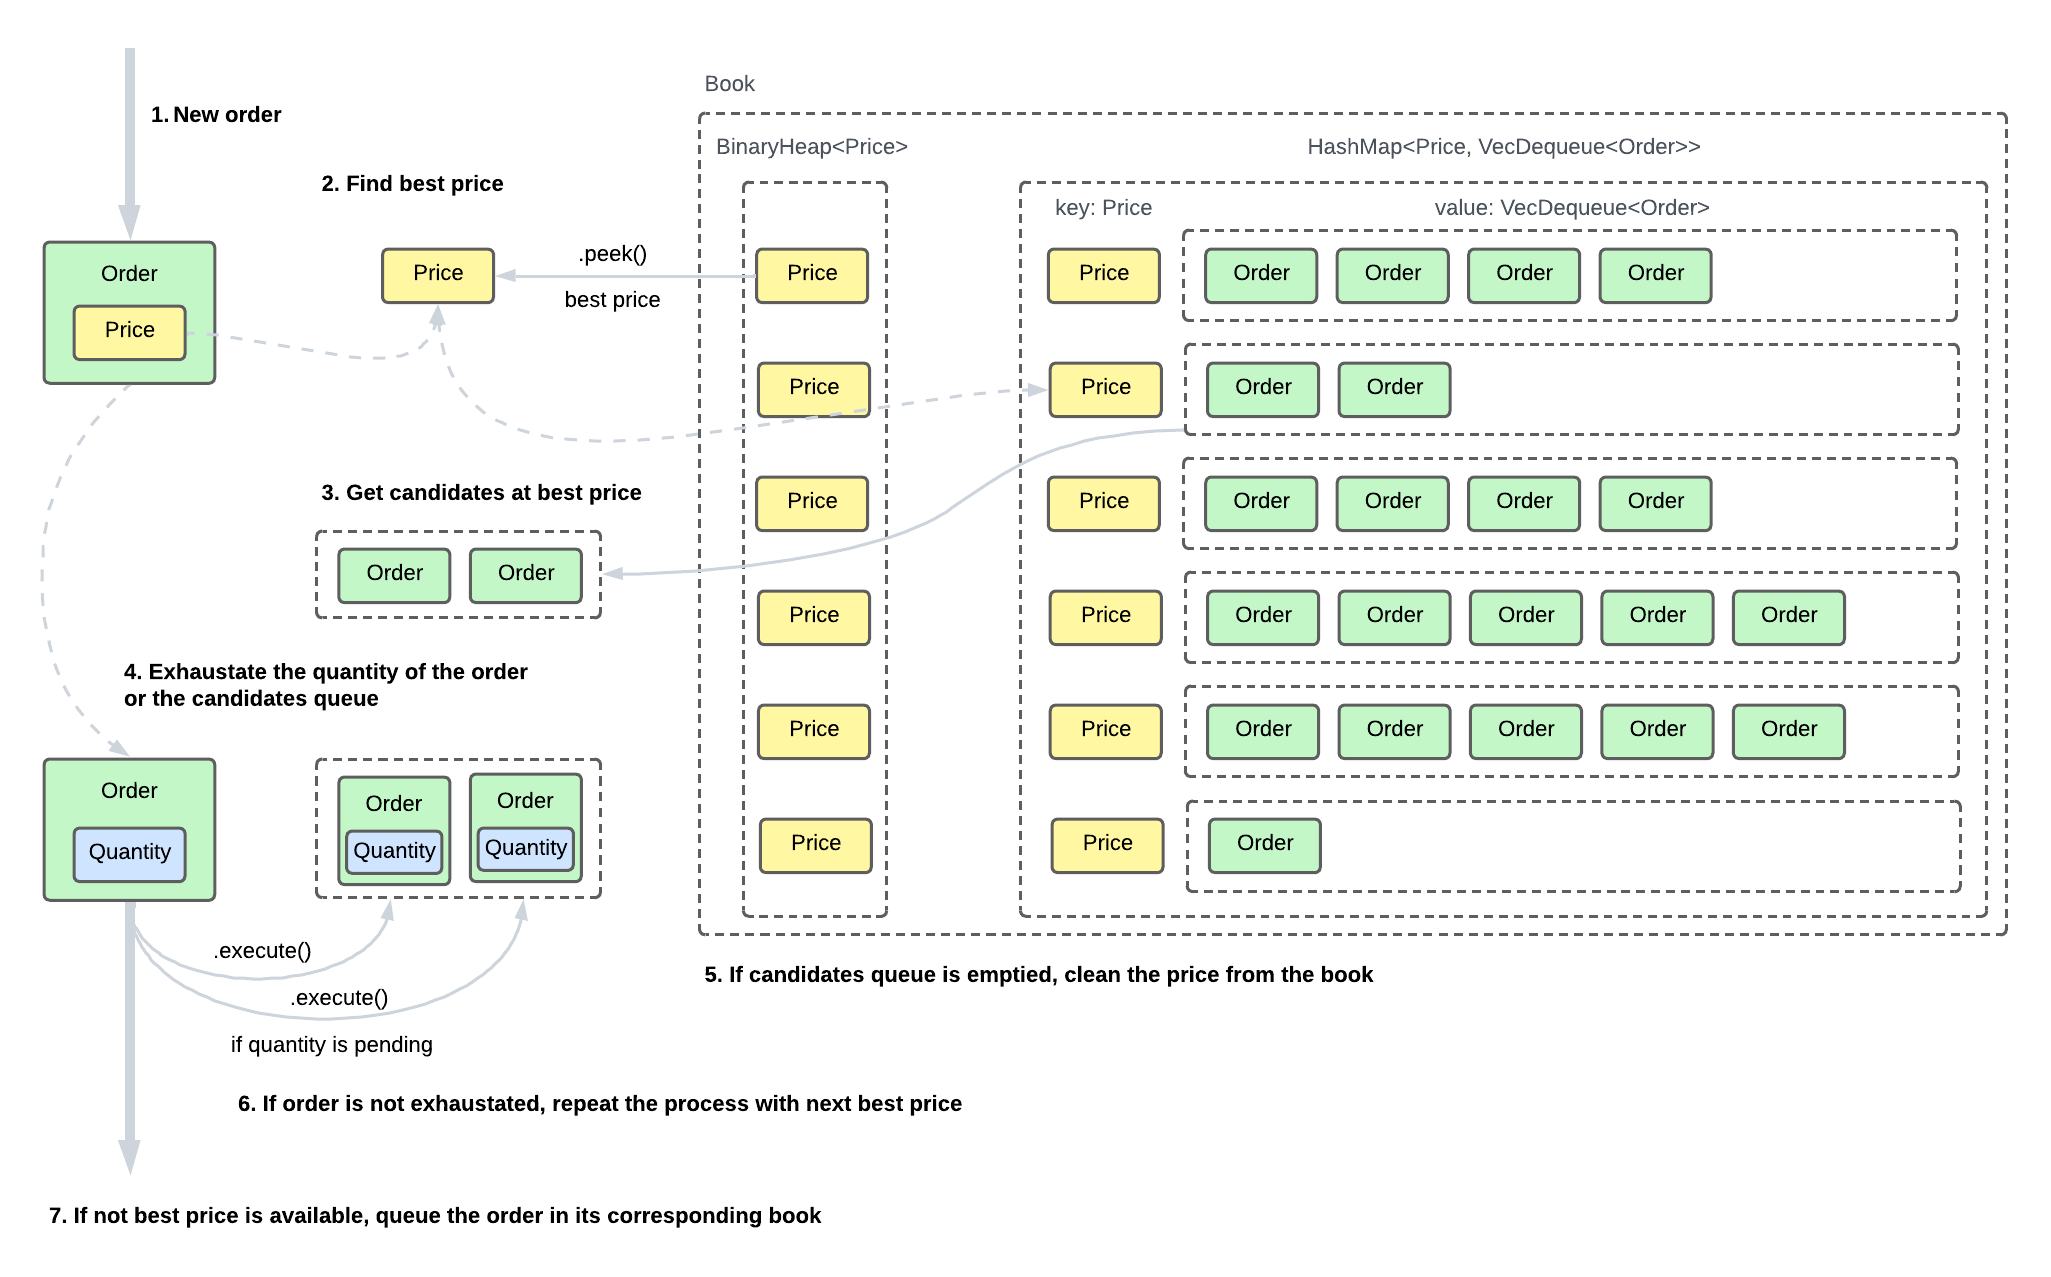
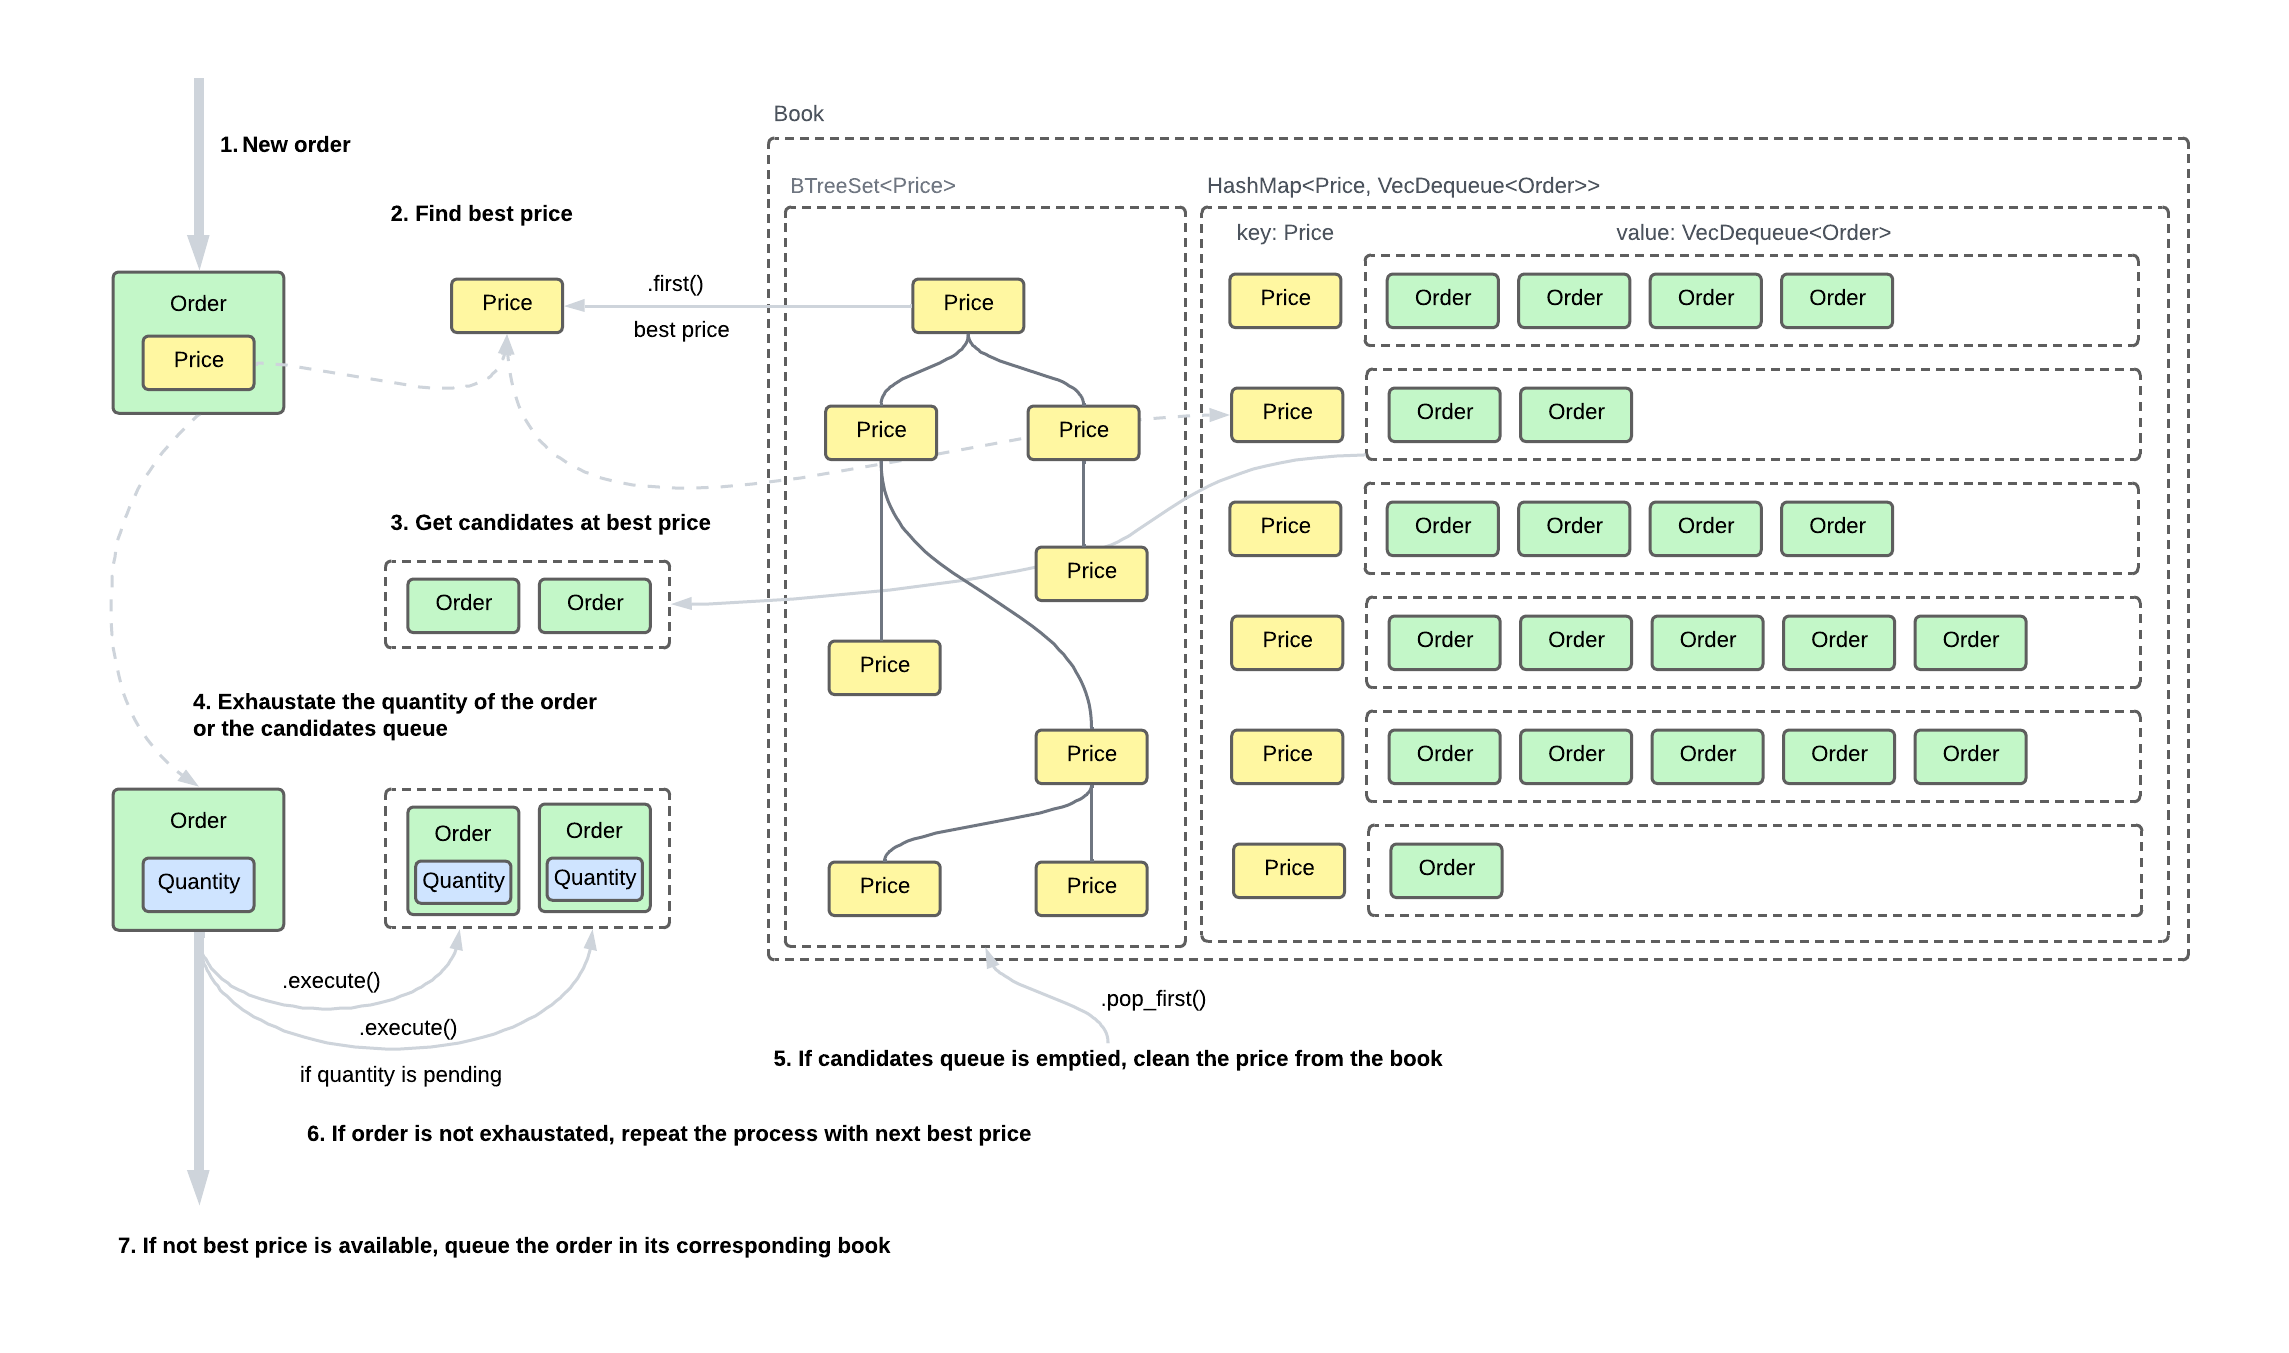
Add README updates

diff --git a/README.md b/README.md
@@ -35,10 +35,10 @@ The mpsc channels will act as FIFO queues. This way, when the matching engine is
 The matching engine uses a **hybrid structure** that combines hash maps and binary heaps to efficiently manage and match orders.
 
 ````
-pub type OrderQueue = BinaryHeap<Order>;
+pub type OrderQueue = VecDequeue<Order>;
 pub type OrderMap = HashMap<Price, OrderQueue>;
-pub type BidQueue = BinaryHeap<Price>;
-pub type AskQueue = BinaryHeap<Reverse<Price>>;
+pub type BidQueue = BTreeSet<Price>;
+pub type AskQueue = BTreeSet<Reverse<Price>>;
 
 pub struct OrderBook {
     pub bids: OrderMap,
@@ -49,18 +49,20 @@ pub struct OrderBook {
 }
 ````
 
-- `OrderQueue` stores Order in a BinaryHeap to ensure the order by timestamp.
+- `OrderQueue`:
+Stores Order in a `VecDequeue` to ensure FIFO access.
 - `OrderMap` (`HashMap<Price, OrderQueue>`)
-Each price level maps to a queue of orders (`OrderQueue`), stored as a max-heap (`BinaryHeap`) sorted by time priority (earlier orders have higher priority).
-    - `bids` contains buy orders (max-price priority).
-    - `asks` contains sell orders (min-price priority).
-
-- `BidQueue` and `AskQueue`
+Each price level maps to a queue of orders (`OrderQueue`), stored as a stack (`VecDequeue<Order>`) sorted in a FIFO model (older orders have higher priority).
+    - `bids`:
+    contains buy orders grouped by price.
+    - `asks`:
+    contains sell orders grouped by price.
+- `BidQueue` and `AskQueue`:
 These heaps maintain the set of active price levels, enabling quick access to the best bid (highest price) and best ask (lowest price) in O(1).
 - `BidQueue`:
-`BinaryHeap<Price>` — max-heap for bids sorted by timestamp.
+Prices for placed bids are uniquely stored in a descending order in a `BTreeSet<Price>` structure.
 - `AskQueue`:
-`BinaryHeap<Reverse<Price>>` — min-heap for asks sorted by timestamp.
+Prices for placed asks are uniquely stored in an ascending order in a `BTreeSet<Reverse<Price>>` structure.
 - `last_price`:
 Stores the last traded price for market reference.
 
@@ -72,20 +74,27 @@ BinaryHeap ensures O(log n) insertion/removal while maintaining order priority (
 This design balances speed, simplicity, and memory efficiency, and scales well under high-frequency trading workloads.
 
 ### Matching flow
+
+The following diagram shows the flow to match an entry order:
+
 ![Matching Overview](./assets/images/matching-overview.png)
 
 #### Complexity
-| Operation                         | Description                                        | Complexity |
-| --------------------------------- | -------------------------------------------------- | ---------- |
-| **Add order**                     | Insert into price-level heap + update price heap   | O(log n)   |
-| **Find best bid/ask**             | Peek top of `BidQueue` or `AskQueue`               | O(1)       |
-| **Find specific price level**     | HashMap lookup                                     | O(1) avg   |
-| **Match order (partial/full)**    | Pop from heap(s), update price heaps if needed     | O(log n)   |
+
+| Operation | Description | Complexity |
+| --------- | ----------- | ---------- |
+| **Add order** | Insert order into price-level map + update prices queue | O(log n) |
+| **Find best bid/ask** | `.first()` of `BidQueue` or `AskQueue` | O(1) |
+| **Find specific price level** | HashMap lookup `bids` or `asks` | O(1) |
+| **Remove best bid/ask** | `pop_first()` of `BidQueue` or `AskQueue` | O(log n) |
+| **Remove price level** | Remove queue from map `bids` or `asks` | O(1) |
+| **Match order (partial/full)** | Pop from tree(s), update orders in maps and prices tree if needed | O(log n) |
 
 
 ## Development 
 
 ### Dependencies
+
 - **axum:** Web framework for building HTTP servers and WebSocket endpoints; handles routing, extractors, and middleware.
 - **tokio:** Asynchronous runtime for handling multiple concurrent tasks efficiently, including WebSocket connections.
 - **serde:** Serialization/deserialization library; allows converting Rust structs to JSON and back.
